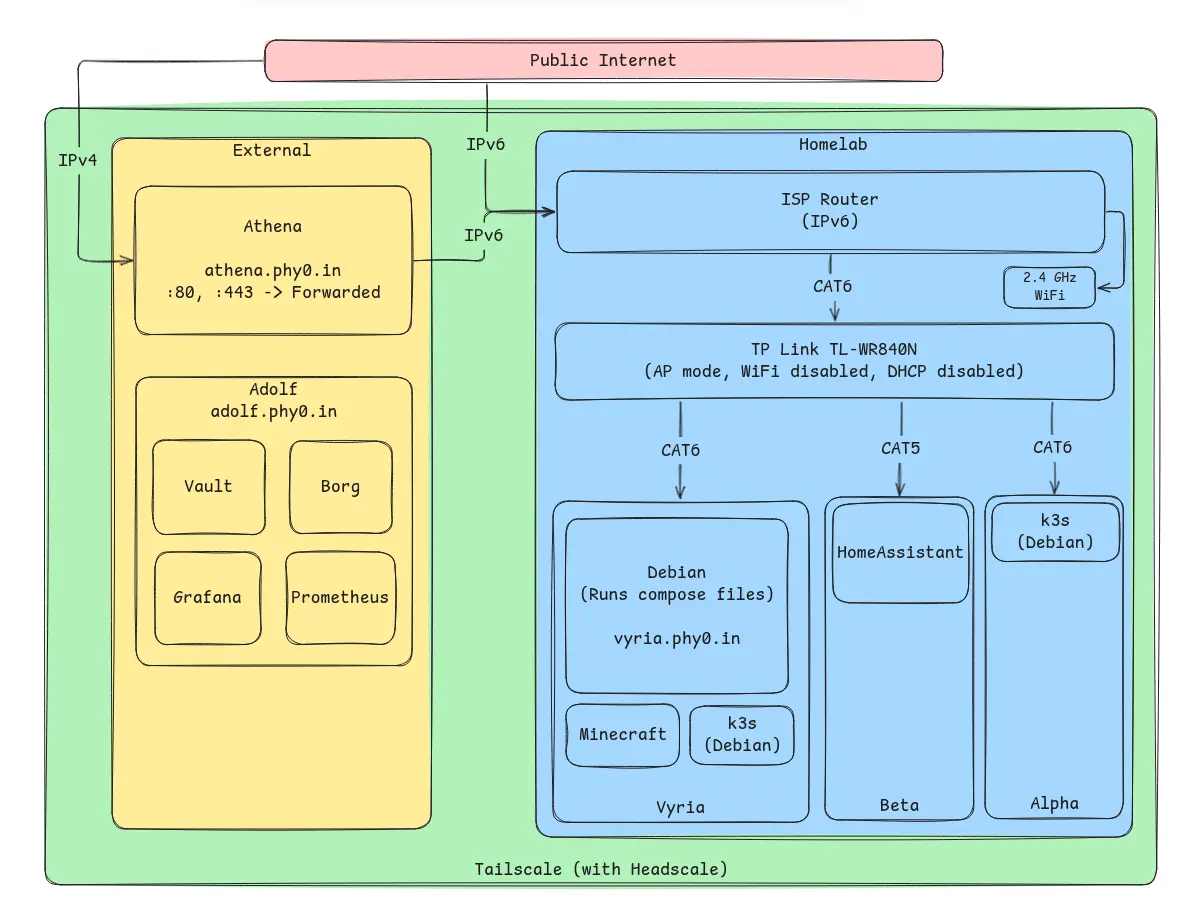
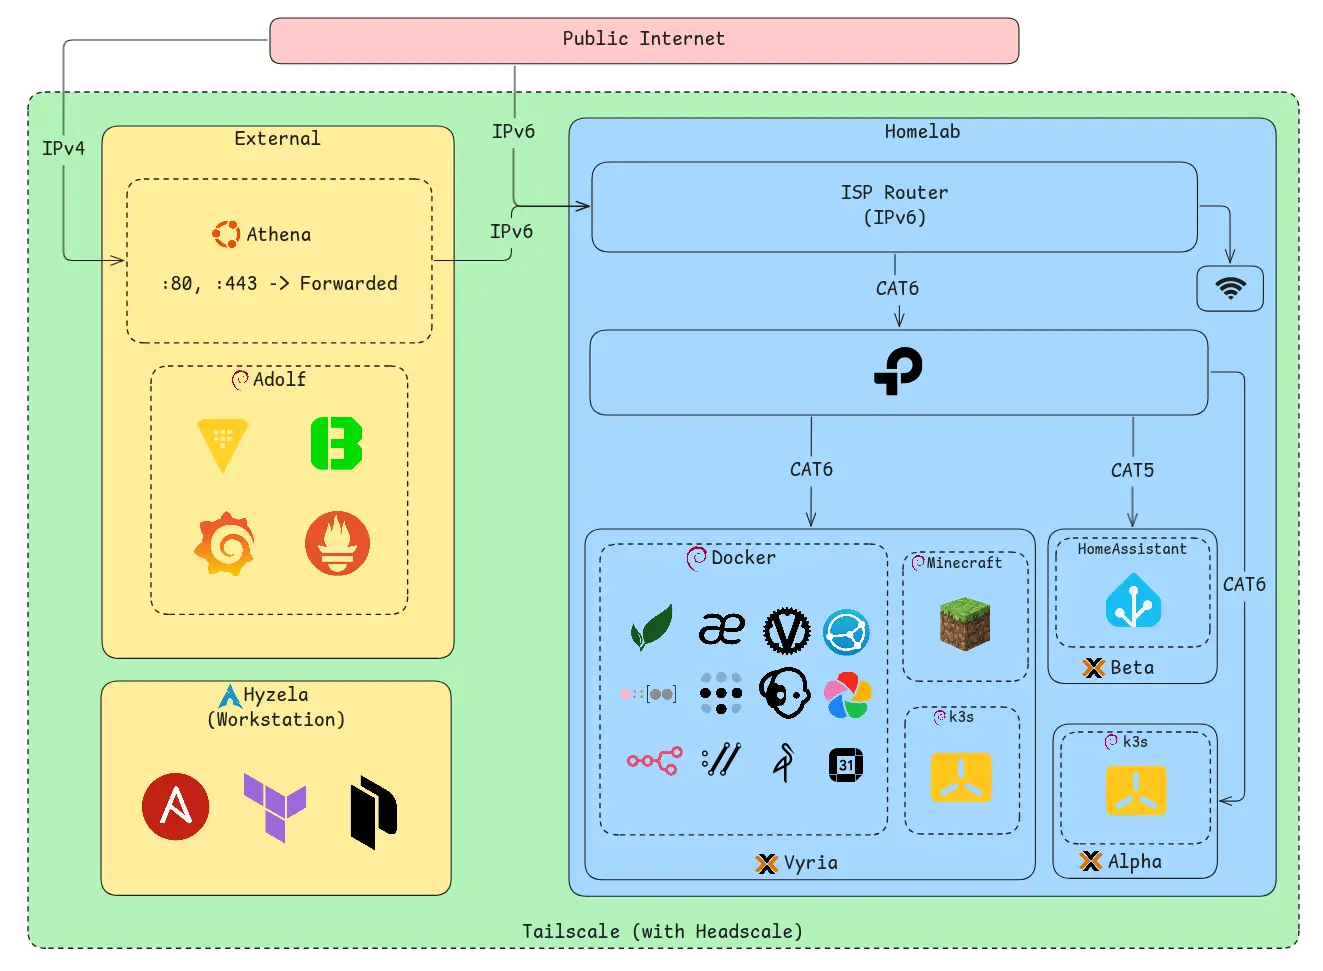
docs: diagram update

diff --git a/README.md b/README.md
@@ -2,7 +2,7 @@
 
 # Homelab
 
-[![Baikal](https://img.shields.io/badge/-Baikal-black?style=for-the-badge&logo=googlecalendar)](https://sabre.io/baikal/) [![Balti](https://img.shields.io/badge/-Balti-black?style=for-the-badge&logo=bitbucket)](https://github.com/) [![Balti MinIO](https://img.shields.io/badge/-Balti%20MinIO-black?style=for-the-badge&logo=minio)](https://min.io/) [![Borgmatic](https://img.shields.io/badge/-Borgmatic-black?style=for-the-badge&logo=borgbackup)](https://torsion.org/borgmatic/) [![Chota](https://img.shields.io/badge/-Chota-black?style=for-the-badge&logo=curl)](https://github.com/) [![Flatnotes](https://img.shields.io/badge/-Flatnotes-black?style=for-the-badge&logo=markdown)](https://github.com/dullage/flatnotes) [![Syncthing](https://img.shields.io/badge/-Syncthing-black?style=for-the-badge&logo=syncthing)](https://syncthing.net/) [![Headscale](https://img.shields.io/badge/-Headscale-black?style=for-the-badge&logo=tailscale)](https://headscale.net/) [![HomeAssistant](https://img.shields.io/badge/-HomeAssistant-black?style=for-the-badge&logo=homeassistant)](<[https://github.com/dani-garcia/vaultwarden](https://www.home-assistant.io/)>) [![Immich](https://img.shields.io/badge/-Immich-black?style=for-the-badge&logo=immich)](https://immich.app/) [![Kachra](https://img.shields.io/badge/-Kachra-black?style=for-the-badge&logo=pastebin)](https://github.com/) [![n8n](https://img.shields.io/badge/-n8n-black?style=for-the-badge&logo=n8n)](https://n8n.io/) [![Paperless NGX](https://img.shields.io/badge/-Paperless%20NGX-black?style=for-the-badge&logo=paperlessngx)](https://docs.paperless-ngx.com/) [![Traefik](https://img.shields.io/badge/-Traefik-black?style=for-the-badge&logo=traefikproxy)](https://traefik.io/) [![TUI Suite](https://img.shields.io/badge/-TUI%20Suite-black?style=for-the-badge&logo=termius)](https://github.com/) [![Vaultwarden](https://img.shields.io/badge/-Vaultwarden-black?style=for-the-badge&logo=bitwarden)](https://github.com/dani-garcia/vaultwarden)
+[![Baikal](https://img.shields.io/badge/-Baikal-black?style=for-the-badge&logo=googlecalendar)](https://sabre.io/baikal/) [![Balti](https://img.shields.io/badge/-Balti-black?style=for-the-badge&logo=bitbucket)](https://github.com/mradigen/balti) [![MinIO](https://img.shields.io/badge/-Balti%20MinIO-black?style=for-the-badge&logo=minio)](https://min.io/) [![Borgmatic](https://img.shields.io/badge/-Borgmatic-black?style=for-the-badge&logo=borgbackup)](https://torsion.org/borgmatic/) [![Chota](https://img.shields.io/badge/-Chota-black?style=for-the-badge&logo=curl)](https://github.com/mradigen/chota) [![Flatnotes](https://img.shields.io/badge/-Flatnotes-black?style=for-the-badge&logo=markdown)](https://github.com/dullage/flatnotes) [![Syncthing](https://img.shields.io/badge/-Syncthing-black?style=for-the-badge&logo=syncthing)](https://syncthing.net/) [![Headscale](https://img.shields.io/badge/-Headscale-black?style=for-the-badge&logo=tailscale)](https://headscale.net/) [![HomeAssistant](https://img.shields.io/badge/-HomeAssistant-black?style=for-the-badge&logo=homeassistant)](<[https://github.com/dani-garcia/vaultwarden](https://www.home-assistant.io/)>) [![Immich](https://img.shields.io/badge/-Immich-black?style=for-the-badge&logo=immich)](https://immich.app/) [![Kachra](https://img.shields.io/badge/-Kachra-black?style=for-the-badge&logo=pastebin)](https://github.com/mradigen/kachra) [![n8n](https://img.shields.io/badge/-n8n-black?style=for-the-badge&logo=n8n)](https://n8n.io/) [![Paperless NGX](https://img.shields.io/badge/-Paperless%20NGX-black?style=for-the-badge&logo=paperlessngx)](https://docs.paperless-ngx.com/) [![Traefik](https://img.shields.io/badge/-Traefik-black?style=for-the-badge&logo=traefikproxy)](https://traefik.io/) [![TUI Suite](https://img.shields.io/badge/-TUI%20Suite-black?style=for-the-badge&logo=termius)](https://github.com/) [![Vaultwarden](https://img.shields.io/badge/-Vaultwarden-black?style=for-the-badge&logo=bitwarden)](https://github.com/dani-garcia/vaultwarden)
 
 | **Hypervisor**                                                                                                      | **OS**                                                                                                           | **Tools**                                                                                                                                                                                                                                                                                                                                                                                                                                                                                                                                                                                                                                                                                                                                                                 | **Networking**                                                                                                        |
 | ------------------------------------------------------------------------------------------------------------------- | ---------------------------------------------------------------------------------------------------------------- | ------------------------------------------------------------------------------------------------------------------------------------------------------------------------------------------------------------------------------------------------------------------------------------------------------------------------------------------------------------------------------------------------------------------------------------------------------------------------------------------------------------------------------------------------------------------------------------------------------------------------------------------------------------------------------------------------------------------------------------------------------------------------- | --------------------------------------------------------------------------------------------------------------------- |
@@ -10,12 +10,9 @@
 
 </div>
 
-<details>
-<summary><h2>📐 <b>Infra Diagram</b></h2></summary>
+<h2>📐 <b>Diagram</b> </h2>
 
 ![Architecture](.github/architecture.webp)
-  
-</details>
 
 ## 📖 **Overview**
 
@@ -75,7 +72,7 @@ Each directory contains its own README with detailed information about the confi
   <summary><strong>Setup</strong></summary>
 
 ![Setup](.github/setup.webp)
-  
+
 </details>
 
 <details>
